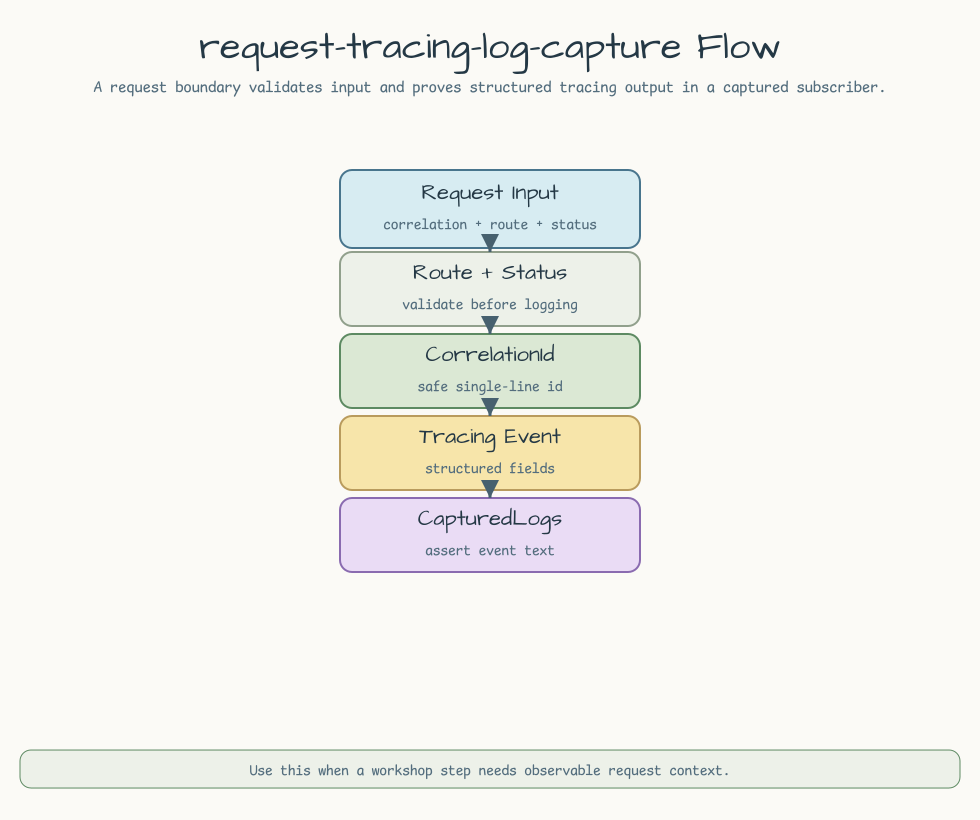
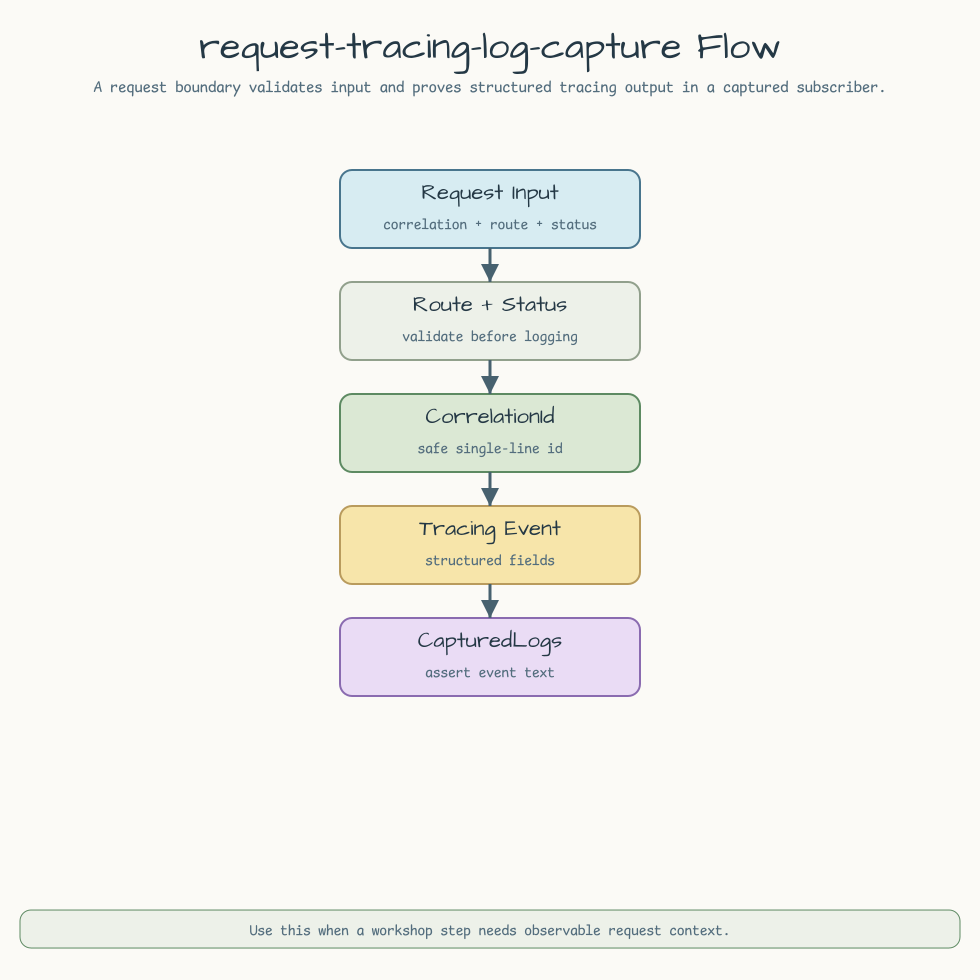
docs: increase example flow diagram spacing
Increase vertical spacing in the milestone 0.1.0 example flow diagrams so connector stems and arrowheads remain visible at README scale.

Constraint: bluetape4k-diagram visual preview gate failed because card spacing hid the arrows between flow cards.

Rejected: keeping compact cards | the arrows are part of the teaching signal and must be visible.

Confidence: high

Scope-risk: narrow

Directive: keep the larger flow canvas and spacing in scripts/generate-foundation-diagrams.py for future example-flow diagrams.

Tested: python3 scripts/generate-foundation-diagrams.py; make ci; git diff --check; xmllint --noout docs/images/readme-diagrams/*.svg; README SVG embed scan; forbidden font scan; PNG visual inspection

Not-tested: GitHub-rendered README preview after push.

Changed region(s): [[0.3367, 0.1524, 0.6735, 0.7317], [0.0918, 0.0305, 0.8878, 0.122], [0.0306, 0.9146, 0.9796, 0.9756]]

diff --git a/scripts/generate-foundation-diagrams.py b/scripts/generate-foundation-diagrams.py
@@ -360,11 +360,11 @@ def flow_diagram(
     footer: str,
 ) -> Diagram:
     width = 980
-    height = 820
+    height = 980
     x = 340
     boxes: list[Box] = [Box("step0", first[0], first[1], x, 170, 300, 78, first[2])]
     for i, (t, d, tone) in enumerate(rest, start=1):
-        boxes.append(Box(f"step{i}", t, d, x, 170 + i * 82, 300, 74, tone))
+        boxes.append(Box(f"step{i}", t, d, x, 170 + i * 112, 300, 78, tone))
     routes = []
     for i in range(len(boxes) - 1):
         a = boxes[i]